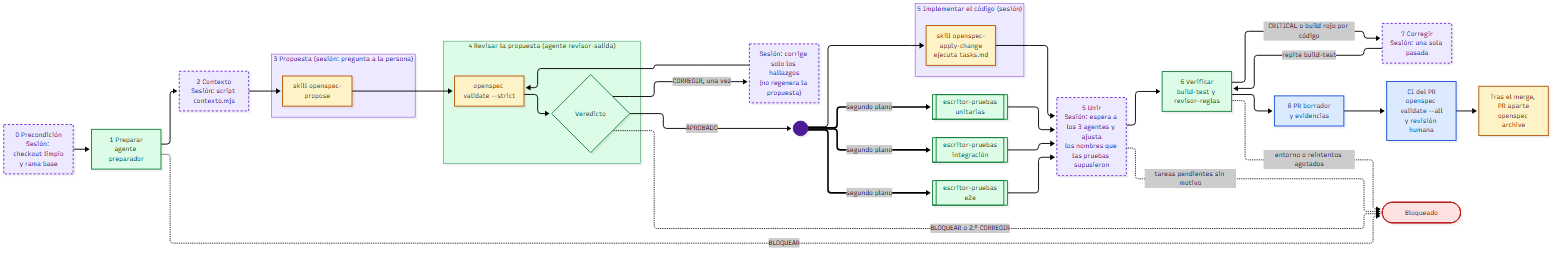
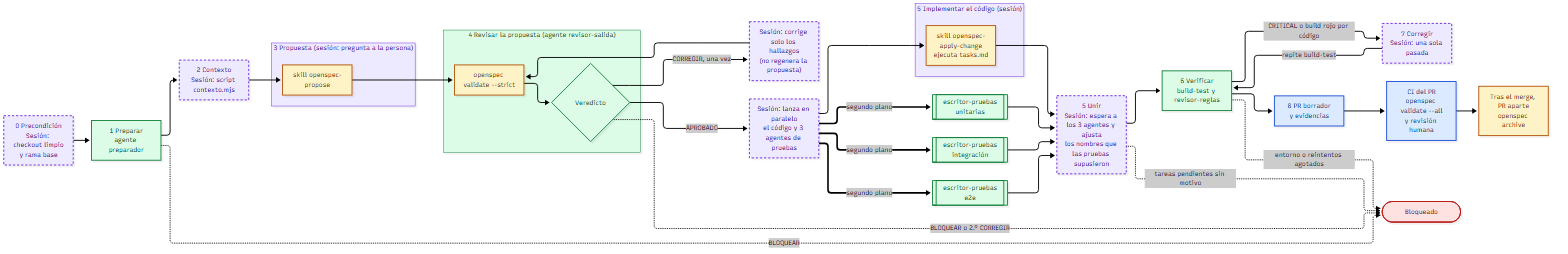
docs: el lanzamiento en paralelo vuelve a ser un recuadro de la sesión

diff --git a/docs/flujo-orquestador.md b/docs/flujo-orquestador.md
@@ -36,11 +36,11 @@ flowchart LR
     subgraph S5["5 Implementar el código (sesión)"]
         OA["skill openspec-apply-change<br/>ejecuta tasks.md"]
     end
-    VER -->|APROBADO| FORK(( ))
-    FORK --> OA
-    FORK ==>|"segundo plano"| TU[["escritor-pruebas<br/>unitarias"]]
-    FORK ==>|"segundo plano"| TI[["escritor-pruebas<br/>integración"]]
-    FORK ==>|"segundo plano"| TE[["escritor-pruebas<br/>e2e"]]
+    VER -->|APROBADO| INI["Sesión: lanza en paralelo<br/>el código y 3 agentes de pruebas"]
+    INI --> OA
+    INI ==>|"segundo plano"| TU[["escritor-pruebas<br/>unitarias"]]
+    INI ==>|"segundo plano"| TI[["escritor-pruebas<br/>integración"]]
+    INI ==>|"segundo plano"| TE[["escritor-pruebas<br/>e2e"]]
 
     OA --> UNI["5 Unir<br/>Sesión: espera a los 3 agentes y ajusta<br/>los nombres que las pruebas supusieron"]
     TU --> UNI
@@ -64,14 +64,14 @@ flowchart LR
     classDef gha fill:#dbeafe,stroke:#1d4ed8,color:#1e3a8a
     classDef bloq fill:#fee2e2,stroke:#b91c1c,color:#7f1d1d
     class OP,OA,OV,ARC openspec
-    class PRE,S2,FIX,UNI,S7 sesion
+    class PRE,S2,FIX,INI,UNI,S7 sesion
     class S1,VER,TU,TI,TE,V6 agente
     class S8,CI gha
     class BLOQ bloq
     style S3G fill:#ede9fe,stroke:#6d28d9,color:#4c1d95
     style S5 fill:#ede9fe,stroke:#6d28d9,color:#4c1d95
     style REV fill:#dcfce7,stroke:#15803d,color:#14532d
-    style FORK fill:#4c1d95,stroke:#4c1d95
+    style INI stroke-dasharray: 5 4
     style PRE stroke-dasharray: 5 4
     style S2 stroke-dasharray: 5 4
     style FIX stroke-dasharray: 5 4
@@ -98,7 +98,6 @@ flowchart LR
 | Rectángulo | Un paso del flujo |
 | Rombo | Una decisión con veredicto (`APROBADO`, `CORREGIR` o `BLOQUEAR`) |
 | Rectángulo con barras dobles a los lados | Un agente que corre en segundo plano, en paralelo con la sesión |
-| Punto morado | El punto donde la sesión lanza varias cosas a la vez (el código y los tres agentes de pruebas) |
 | Estadio (extremos redondeados) | Estado final del flujo |
 
 *Líneas: qué tipo de relación es*
